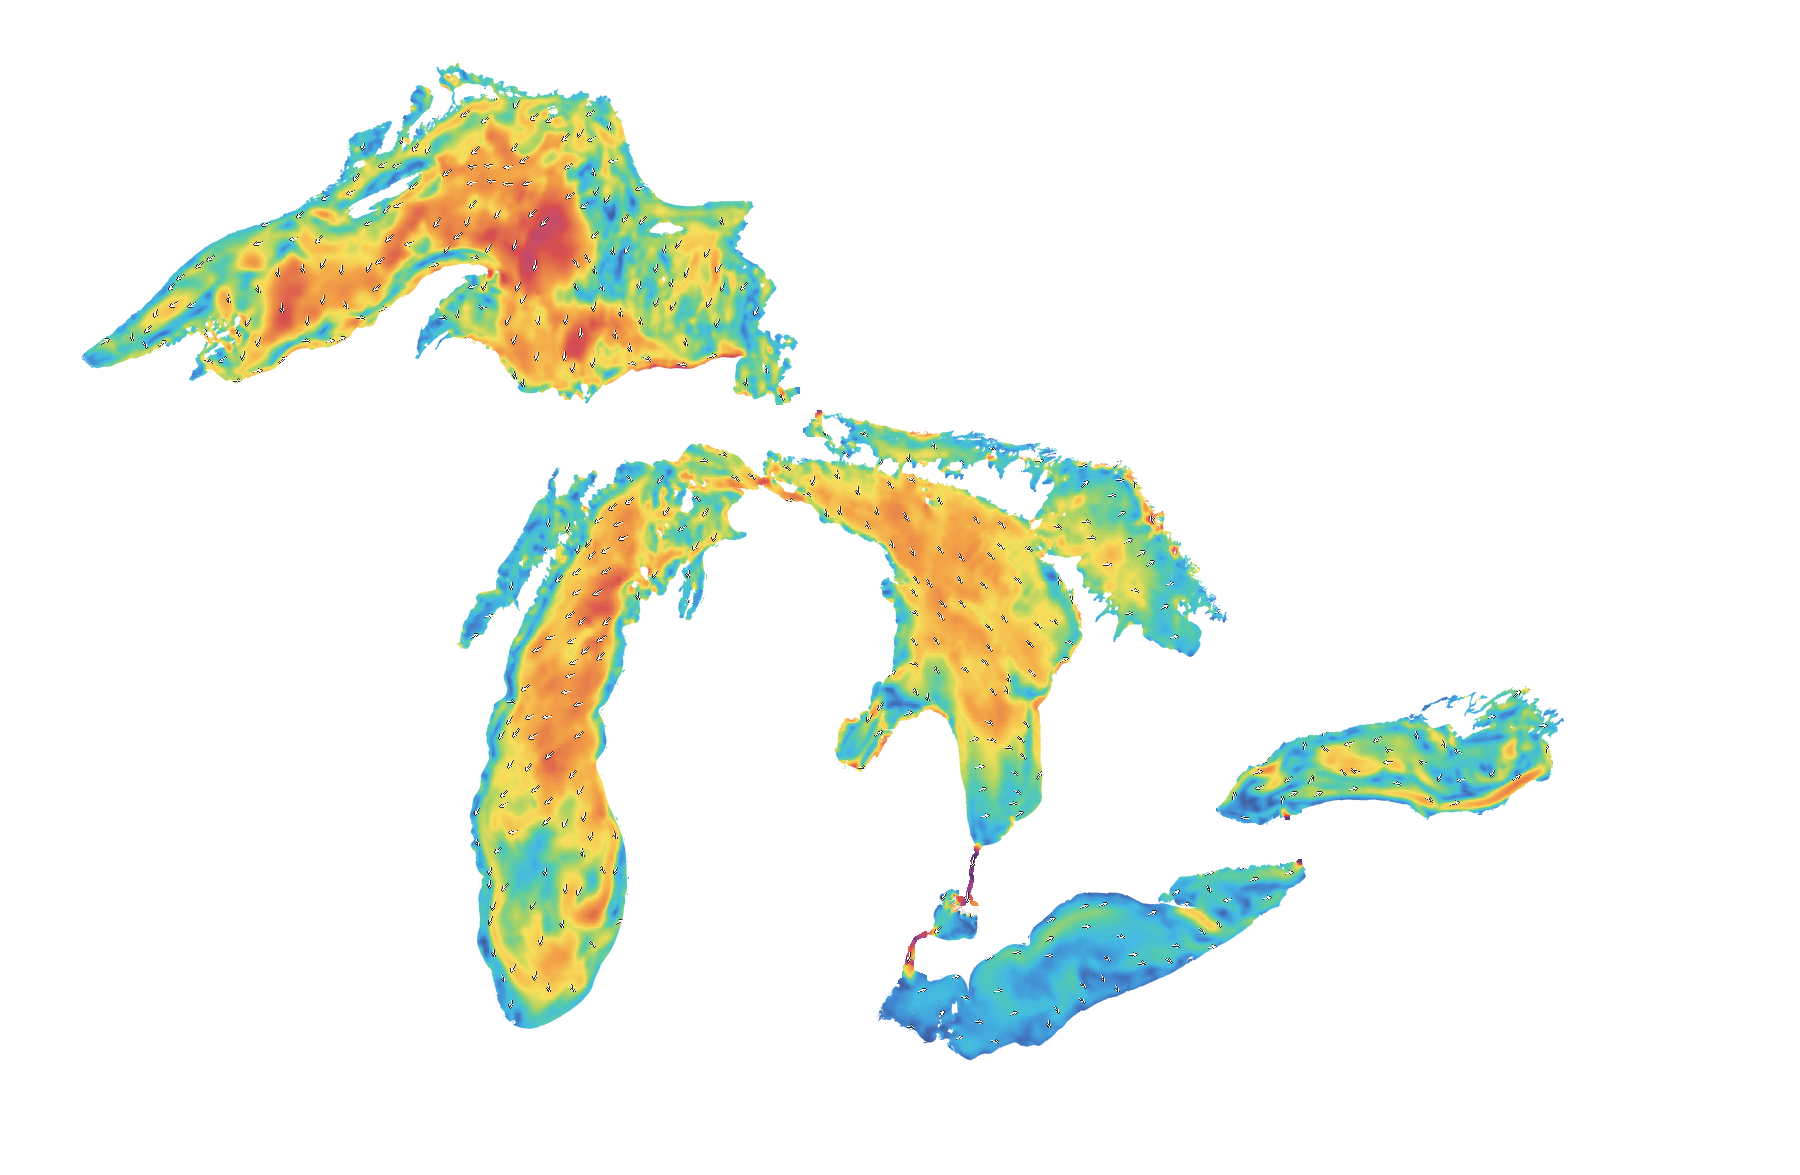
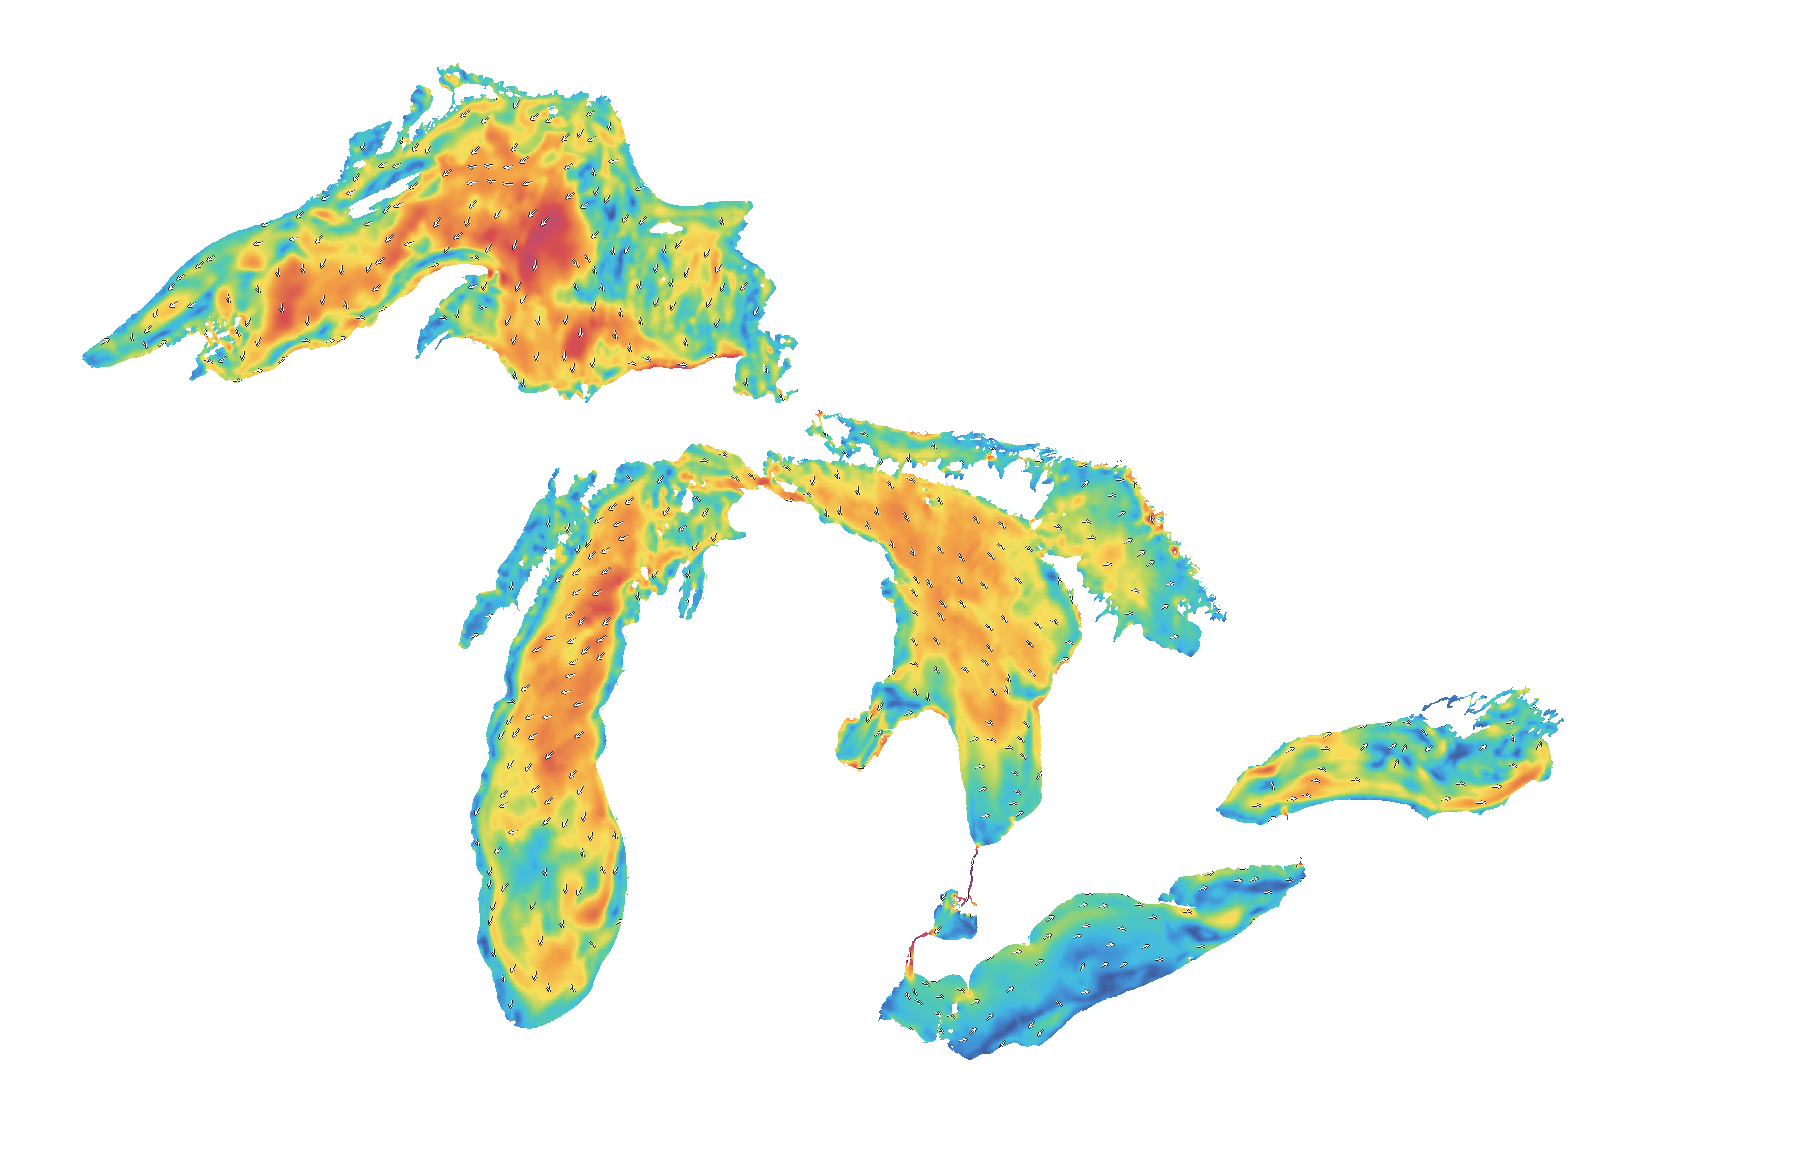
Surface currents: hard shoreline clip, strict river water (zero land fringe)

diff --git a/scripts/build_surface_currents.py b/scripts/build_surface_currents.py
@@ -131,12 +131,14 @@ CUR_MAX = 100.0
 
 # Narrow product-local river-water boxes. The shared NOAA shoreline mask
 # (medium-resolution, built for open-lake coastlines) reads 0 over most
-# of these sub-pixel rivers, which would erase their vectors. Pixels are
-# restored ONLY where an authoritative source actually provides a vector
-# (vec_ok) AND the pixel falls inside one of these boxes — land elsewhere
-# stays transparent exactly as for every other layer. The shared mask
-# asset itself is never touched. Validators import RIVER_BOXES and permit
-# opaque pixels outside the shared mask solely inside these boxes.
+# of these sub-pixel rivers, which would erase their vectors. Alpha is
+# restored ONLY where a source vector strictly lands (no-splat coverage)
+# inside one of these boxes — and the shoreline is a HARD clip (mask
+# majority or strict channel water: opaque; everything else alpha 0),
+# so no feathered gradient fringe survives on land at any zoom. The
+# shared mask asset itself is never touched. Validators import
+# RIVER_BOXES and permit opaque pixels outside the shared mask solely
+# inside these boxes.
 RIVER_BOXES = [
     (-84.60, -84.10, 46.15, 46.62),   # St. Marys River
     (-82.64, -82.36, 42.56, 43.02),   # St. Clair River
@@ -610,7 +612,8 @@ def _build(glofs_pick, fvcom_pick, source_id, now):
     spd_c = np.full((H, W), np.nan)   # cm/s
     uu_c = np.full((H, W), np.nan)    # m/s east
     vv_c = np.full((H, W), np.nan)    # m/s north
-    for prefix, f in op_fields.items():
+    strict_water = np.zeros((H, W), bool)  # cells a source vector lands in
+    for prefix, f in op_fields.items():    # (no splat: hard water edge)
         rows, cols, valid = canvas_indices(f["lat"], f["lon"], bounds)
         src_ok = valid & f["ok"].ravel()
         spd = np.hypot(f["u"], f["v"]).ravel() * 100.0
@@ -621,6 +624,10 @@ def _build(glofs_pick, fvcom_pick, source_id, now):
                                     splat_radius=2)
             fresh = np.isnan(grid) & np.isfinite(g)
             grid[fresh] = g[fresh]
+        _one = np.ones(um.size)
+        _cov, _c0 = bin_to_canvas(rows, cols, _one, src_ok, (H, W),
+                                  splat_radius=0)
+        strict_water |= _c0 > 0
     n_op = int(np.isfinite(spd_c).sum())
     op_valid = np.isfinite(spd_c).copy()  # operational-only mask for QC
     for lake_dir, f in fv_fields.items():
@@ -633,6 +640,10 @@ def _build(glofs_pick, fvcom_pick, source_id, now):
                                     splat_radius=1)
             hole = np.isnan(grid) & np.isfinite(g)
             grid[hole] = g[hole]
+        _one = np.ones(f["u"].size)
+        _cov, _c0 = bin_to_canvas(rows, cols, _one, src_ok, (H, W),
+                                  splat_radius=0)
+        strict_water |= _c0 > 0
     n_all = int(np.isfinite(spd_c).sum())
     n_fill = n_all - n_op
     print(f"[{PRODUCT}] canvas: operational {n_op} + experimental fill "
@@ -680,7 +691,13 @@ def _build(glofs_pick, fvcom_pick, source_id, now):
     vec_ok = np.isfinite(spd_c)  # authoritative vector present (pre-mask)
     wm = load_watermask()
     river_boxes = river_box_mask(bounds)
-    river_allow = vec_ok & river_boxes  # product-local channel water
+    # HARD shoreline: water pixels fully opaque, everything else fully
+    # transparent — no feathered fringe on land at any zoom. Open lakes
+    # follow the shared mask majority (>=0.5); rivers (sub-pixel for the
+    # mask) render only where a source vector strictly lands (no splat
+    # smear, no bleed halo).
+    river_allow = strict_water & river_boxes  # product-local channel water
+    keep = ((wm >= 0.5) | river_allow).astype(np.float32)
     # arrows ride the flow (painted BEFORE masking so river glyphs land)
     uu_w = np.where(vec_ok, uu_c, np.nan)
     vv_w = np.where(vec_ok, vv_c, np.nan)
@@ -694,10 +711,11 @@ def _build(glofs_pick, fvcom_pick, source_id, now):
         l_min=CONFIG["arrow_l_min"], l_max=CONFIG["arrow_l_max"],
         speed_ref_cms=CONFIG["arrow_speed_ref_cms"],
         min_speed_cms=CONFIG["arrow_min_speed_cms"])
-    # shoreline: shared mask everywhere, channel water restored in rivers
-    keep = np.maximum(wm, river_allow.astype(np.float32))
-    rgba[:, :, 3] = np.round(
-        rgba[:, :, 3].astype(np.float32) * keep).astype(np.uint8)
+    # shoreline: hard clip — shared mask majority on lakes, strict
+    # channel water in rivers; land alpha is exactly 0 everywhere
+    # (keep is binary, so no feathered fringe survives on land).
+    rgba[:, :, 3] = (rgba[:, :, 3].astype(np.float32) * keep).round().astype(
+        np.uint8)
     rgba = bleed_rgb_into_transparent(rgba)  # anti-fringe for GE bilinear
     save_png(rgba, os.path.join(stage_prod, "current.png"))
     n_opaque = int((rgba[:, :, 3] > 0).sum())
